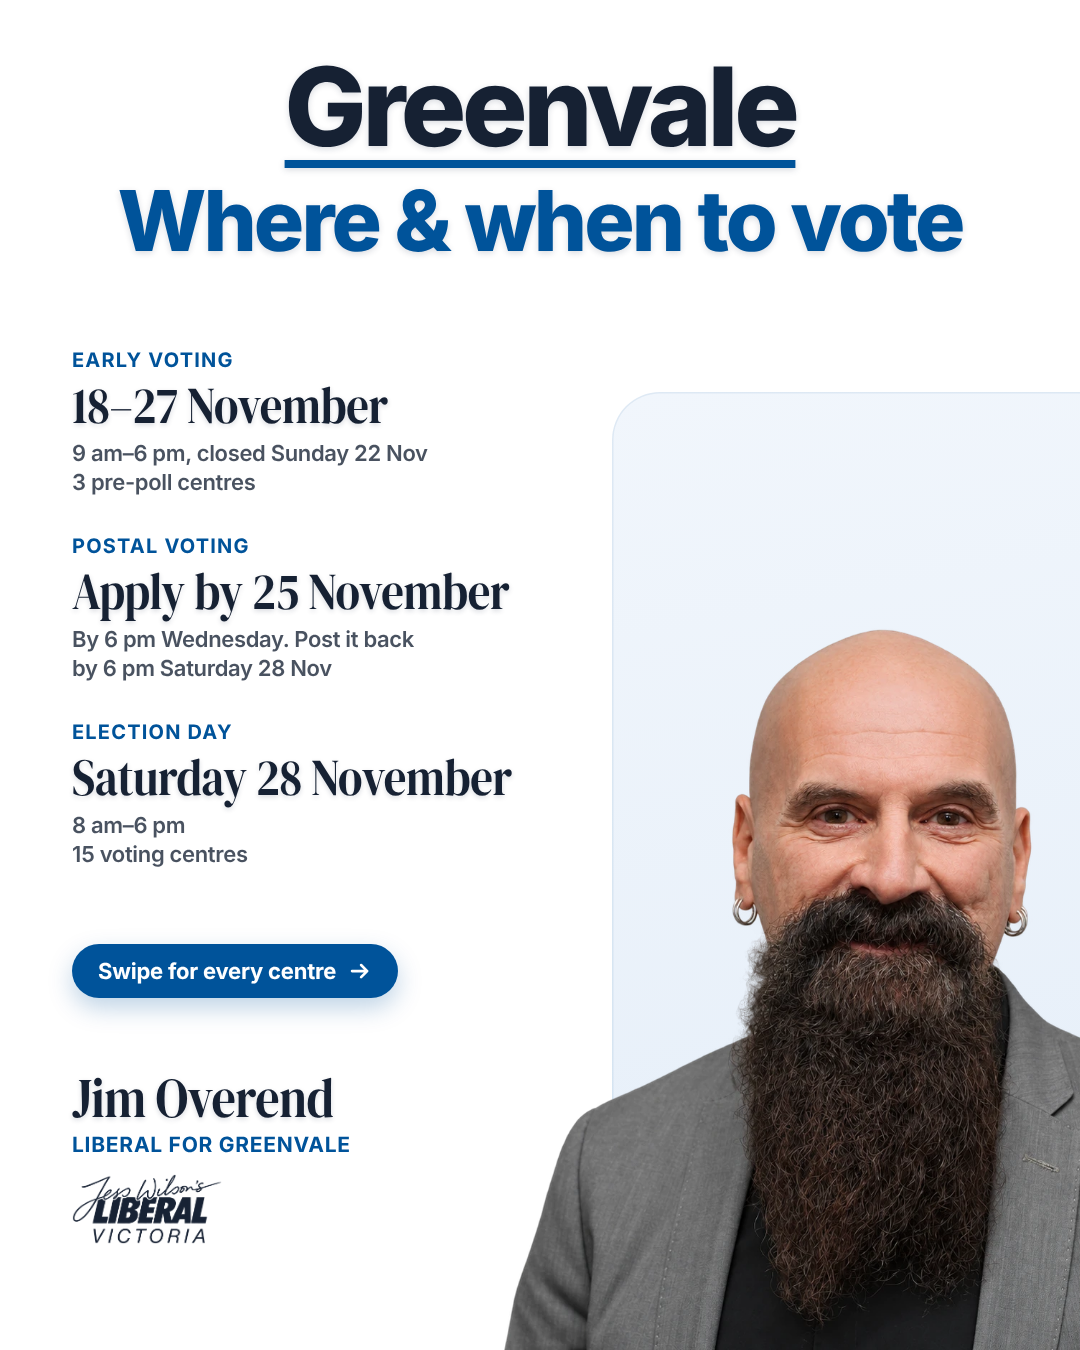
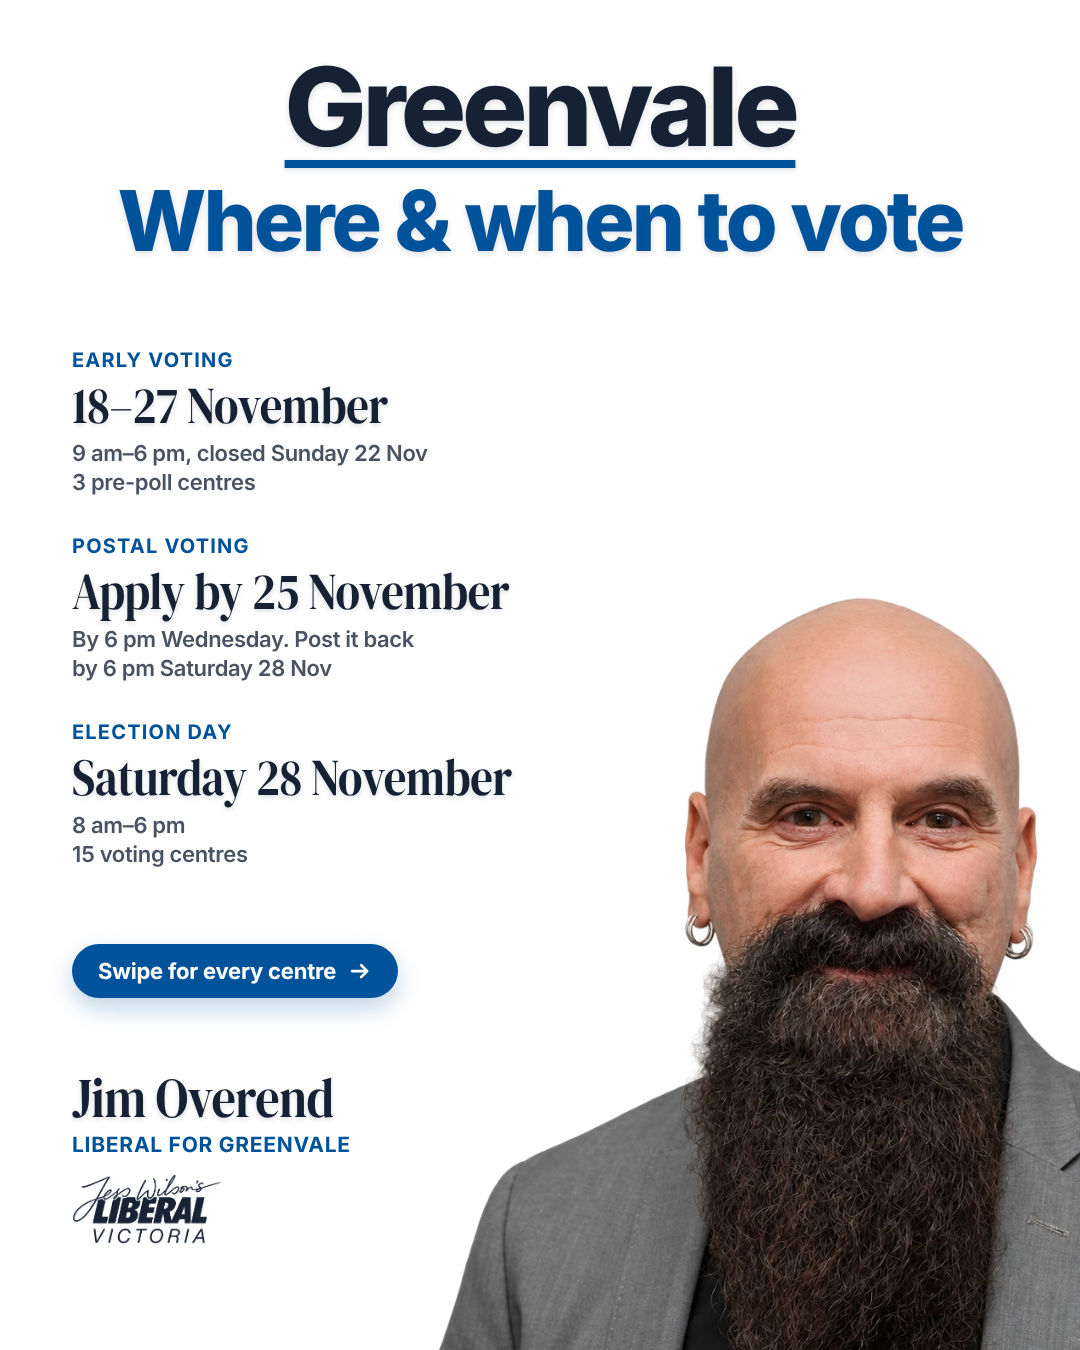
Voting cover: remove background field, enlarge Jim
Claude-Session: https://claude.ai/code/session_01MT6wivusBEagFnhed7SAun

Changed region(s): [[0.3972, 0.4356, 1.0, 1.0], [0.9778, 0.9022, 1.0, 1.0]]

diff --git a/designs/greenvale-voting-cover/source/cover.html b/designs/greenvale-voting-cover/source/cover.html
@@ -1,7 +1,7 @@
 <!doctype html>
 <html><head><meta charset="utf-8">
 <!-- 1080x1350 carousel cover: "Greenvale / Where & when to vote", three "when" blocks (early, postal,
-     election day), swipe cue, large Jim Overend cut-out, name block + navy logo. Light campaign style. -->
+     election day), swipe cue, large Jim Overend cut-out on white, name block + navy logo. Light campaign style. -->
 <style>
 @font-face{font-family:"Serif Bold";src:url(DMSerifDisplay-Regular.ttf)}
 @font-face{font-family:"Serif Light";src:url(InstrumentSerif-Regular.ttf)}
@@ -19,9 +19,6 @@ h1{font-family:"Inter";font-weight:800;color:var(--navy);letter-spacing:-.035em;
 h1 .acc{color:var(--blue)}
 h1 .gv{display:inline-block;font-size:1.3em;letter-spacing:-.04em;margin-bottom:.16em;
   text-decoration:underline;text-decoration-color:var(--blue);text-decoration-thickness:.075em;text-underline-offset:.13em}
-/* soft pale-blue field behind Jim, echoing the panel cards */
-#field{border-radius:48px;background:linear-gradient(170deg,#f1f6fc 0%,#e3edf8 100%);
-  box-shadow:inset 0 0 0 1.5px rgba(0,83,154,.08)}
 #jim{-webkit-mask-image:linear-gradient(90deg,transparent 0%,#000 9%);mask-image:linear-gradient(90deg,transparent 0%,#000 9%)}
 #when{display:flex;flex-direction:column}
 .w .lab{font-family:"Inter";font-weight:700;color:var(--blue);letter-spacing:.06em;text-transform:uppercase;line-height:1}
@@ -38,7 +35,6 @@ h1 .gv{display:inline-block;font-size:1.3em;letter-spacing:-.04em;margin-bottom:
 </style></head>
 <body><div id="stage">
   <h1 id="h" class="abs center"></h1>
-  <div id="field" class="abs"></div>
   <img id="jim" class="abs" src="jim.png" alt="Jim Overend">
   <div id="when" class="abs"></div>
   <div id="swipe" class="abs"><span></span><svg viewBox="0 0 24 24" fill="none" stroke="#fff" stroke-width="2.6" stroke-linecap="round" stroke-linejoin="round"><path d="M4 12h15M13 6l6 6-6 6"/></svg></div>
@@ -59,8 +55,7 @@ const P = Object.assign({
   ],
   whenBox:[72,350,520], whenGap:40, labSize:20, bigSize:52, detSize:22,
   swipe:{text:'Swipe for every centre', left:72, top:944, size:22},
-  field:[612,392,540,1060],                 // pale field behind Jim: left, top, width, height
-  jim:[436,560,900],                         // left, top, width (jim.png 1254x1202)
+  jim:[336,516,1060],                         // left, top, width (jim.png 1254x1202)
   foot:{left:72, top:1070, gap:16},
   name:{size:56, text:'Jim Overend', role:'Liberal for Greenvale', roleSize:21},
   logoW:150
@@ -71,7 +66,6 @@ const [wx,wy,ww]=P.whenBox; Object.assign($('when').style,{left:px(wx),top:px(wy
 $('when').innerHTML=P.when.map(([l,b,d])=>`<div class="w"><div class="lab" style="font-size:${P.labSize}px">${l}</div>
   <div class="big" style="font-size:${P.bigSize}px">${b}</div><div class="det" style="font-size:${P.detSize}px">${d}</div></div>`).join('');
 const S=P.swipe; Object.assign($('swipe').style,{left:px(S.left),top:px(S.top),fontSize:px(S.size)}); $('swipe').querySelector('span').innerHTML=S.text;
-const [fx,fy,fw,fh]=P.field; Object.assign($('field').style,{left:px(fx),top:px(fy),width:px(fw),height:px(fh)});
 const [jx,jy,jw]=P.jim; Object.assign($('jim').style,{left:px(jx),top:px(jy),width:px(jw)});
 Object.assign($('foot').style,{left:px(P.foot.left),top:px(P.foot.top),gap:px(P.foot.gap)});
 $('name').querySelector('.n').innerHTML=P.name.text; $('name').querySelector('.n').style.fontSize=px(P.name.size);

diff --git a/designs/greenvale-voting-cover/README.md b/designs/greenvale-voting-cover/README.md
@@ -3,7 +3,7 @@
 1080×1350 cover slide (plus `@2x`, 2160×2700) for the voting-information carousel, in the light campaign
 style used by the early-voting and election-day cards: underlined "Greenvale" title with "Where & when to
 vote" in blue; three "when" blocks (early voting, postal voting, election day); a "Swipe for every centre →"
-cue; a large Jim Overend cut-out on a pale-blue field, bleeding off the bottom; and the
+cue; a large Jim Overend cut-out on plain white, bleeding off the bottom; and the
 "Jim Overend / LIBERAL FOR GREENVALE" name block with the navy Liberal Victoria logo.
 
 ## Content — confirm against the VEC before posting
@@ -16,7 +16,7 @@ cue; a large Jim Overend cut-out on a pale-blue field, bleeding off the bottom; 
 
 ## Editing / re-rendering
 
-Copy and layout live in the defaults block of `source/cover.html` (`head`, `when`, `swipe`, `jim`, `field`,
+Copy and layout live in the defaults block of `source/cover.html` (`head`, `when`, `swipe`, `jim`,
 `foot`, `name`).
 
 ```bash
